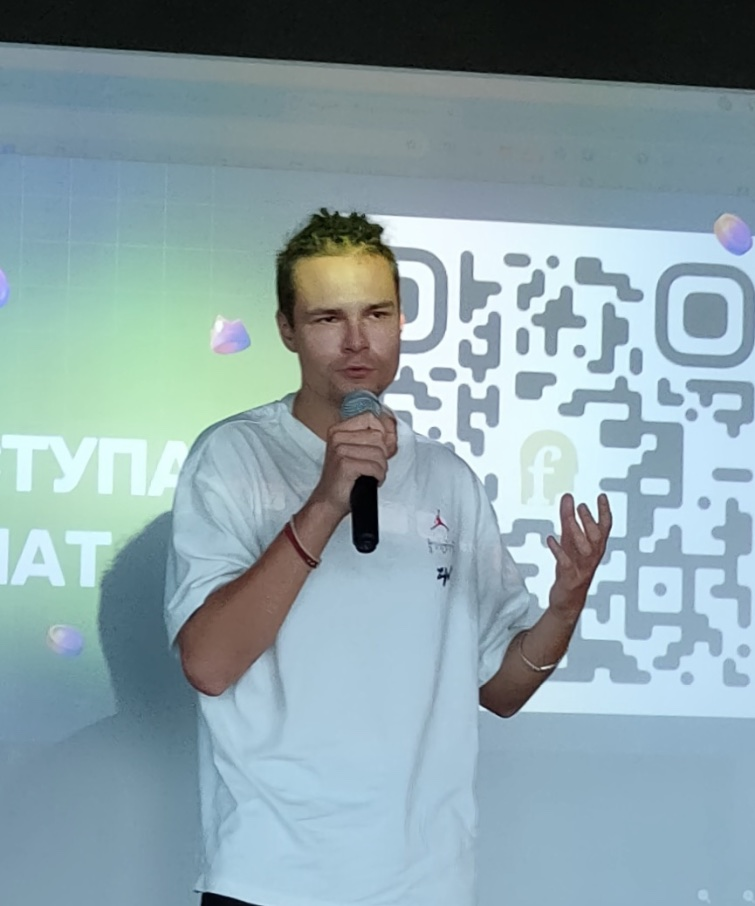
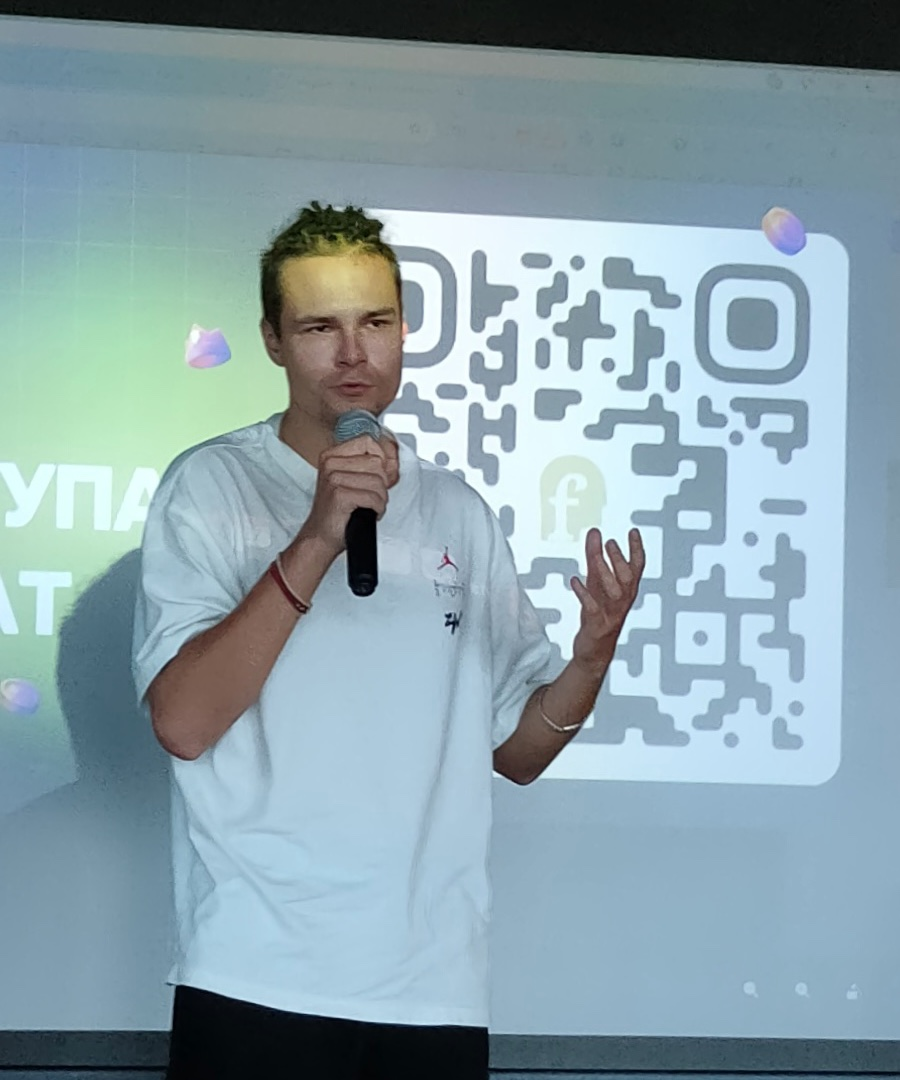
Верхний снимок второго экрана — широкий кадр со сцены

diff --git a/index.html b/index.html
@@ -124,9 +124,9 @@
 </script>
 <noscript><style>html.is-loading, html.is-loading body { overflow: auto !important; } .pl { display: none !important; }</style></noscript>
 
-<link rel="stylesheet" href="assets/css/tokens.css?v=447">
-<link rel="stylesheet" href="assets/css/styles.css?v=447">
-<link rel="stylesheet" href="assets/css/responsive.css?v=447">
+<link rel="stylesheet" href="assets/css/tokens.css?v=448">
+<link rel="stylesheet" href="assets/css/styles.css?v=448">
+<link rel="stylesheet" href="assets/css/responsive.css?v=448">
 <!-- Восьмёрка собрана двумя окружностями, а не текстом: шрифт в значке
      вкладки подставляется системный и на разных машинах разный.
      Подложка своя, чёрная со скруглением: на светлой теме белая
@@ -238,7 +238,7 @@
         — 6 лет работы в crypto-индустрии
       </figcaption>
       <img class="promise__img" src="assets/img/stage.jpg" alt=""
-           width="755" height="906" loading="lazy" decoding="async">
+           width="900" height="1080" loading="lazy" decoding="async">
     </figure>
 
     <h2 class="h2 h2--statement promise__claim" data-reveal style="--reveal-delay:80ms">
@@ -1770,8 +1770,8 @@
 })();
 </script>
 
-<script src="assets/js/warptext.js?v=447" defer></script>
-<script src="assets/js/coinpit.js?v=447"></script>
-<script src="assets/js/main.js?v=447"></script>
+<script src="assets/js/warptext.js?v=448" defer></script>
+<script src="assets/js/coinpit.js?v=448"></script>
+<script src="assets/js/main.js?v=448"></script>
 </body>
 </html>

diff --git a/privacy.html b/privacy.html
@@ -18,10 +18,10 @@
 <link rel="stylesheet" href="https://fonts.googleapis.com/css2?family=Geist:wght@300..700&family=Geist+Mono:wght@400;500&display=swap" media="print" onload="this.media='all'">
 <noscript><link rel="stylesheet" href="https://fonts.googleapis.com/css2?family=Geist:wght@300..700&family=Geist+Mono:wght@400;500&display=swap"></noscript>
 
-<link rel="stylesheet" href="assets/css/tokens.css?v=447">
-<link rel="stylesheet" href="assets/css/styles.css?v=447">
-<link rel="stylesheet" href="assets/css/responsive.css?v=447">
-<link rel="stylesheet" href="assets/css/doc.css?v=447">
+<link rel="stylesheet" href="assets/css/tokens.css?v=448">
+<link rel="stylesheet" href="assets/css/styles.css?v=448">
+<link rel="stylesheet" href="assets/css/responsive.css?v=448">
+<link rel="stylesheet" href="assets/css/doc.css?v=448">
 <!-- Восьмёрка собрана двумя окружностями, а не текстом: шрифт в значке
      вкладки подставляется системный и на разных машинах разный.
      Подложка своя, чёрная со скруглением: на светлой теме белая
